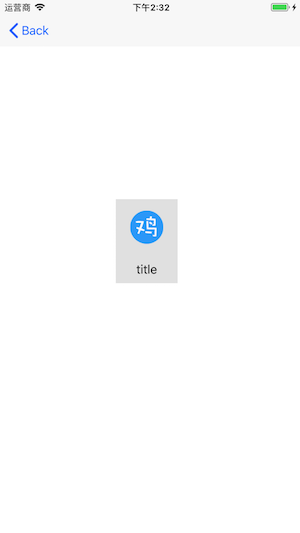
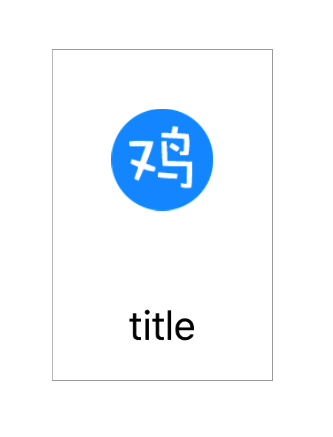
Release 1.0.3.

diff --git a/XOCenterImageTitleButtonDemo/XOCenterImageTitleButtonDemo/ViewController.swift b/XOCenterImageTitleButtonDemo/XOCenterImageTitleButtonDemo/ViewController.swift
@@ -15,7 +15,7 @@ class ViewController: UIViewController {
         // Do any additional setup after loading the view, typically from a nib.
         
         
-        let btn = XOCenterImageTitleButton.init(frame: CGRect.init(x: 170, y: 200, width: 100, height: 100))
+        let btn = XOCenterImageTitleButton.init(frame: CGRect.init(x: 170, y: 200, width: 100, height: 150))
         self.view.addSubview(btn)
         
         btn.setImage(UIImage.init(named: "icon"), for: .normal)
@@ -25,16 +25,16 @@ class ViewController: UIViewController {
         
         btn.imageViewTopSpaceToButton = 10 // default is 0
         btn.imageViewWidth = 50 // default is equal to the width of the button
-        btn.imageViewHeight = 50 // default is equal to  2/3 of the height of the button
+        btn.imageViewHeight = 80 // default is equal to  2/3 of the height of the button
         
         btn.titleLabelTopSpaceToImageView = 10 // default is 0
         btn.titleLabelWidth = 100 // default is equal to the width of the button
-        btn.titleLabelHeight = 20 // default is equal to  1/3 of the height of the button
+        btn.titleLabelHeight = 50 // default is equal to  1/3 of the height of the button
         
-        btn.backgroundColorForHighlightedState = .blue
+        btn.backgroundColorForHighlightedState = .lightGray
         btn.imageViewAlphaForHighlightedState = 0.5
-        
-        
+        btn.layer.borderColor = UIColor.lightGray.cgColor
+        btn.layer.borderWidth = 0.5
     }
     
     override func didReceiveMemoryWarning() {

diff --git a/XOCenterImageTitleButton/XOCenterImageTitleButton.swift b/XOCenterImageTitleButton/XOCenterImageTitleButton.swift
@@ -26,7 +26,7 @@ open class XOCenterImageTitleButton: UIButton {
             }
         }
         set {
-            _imageViewWidth = imageViewWidth
+            _imageViewWidth = newValue
         }
     }
     
@@ -41,7 +41,7 @@ open class XOCenterImageTitleButton: UIButton {
             }
         }
         set {
-            _imageViewHeight = imageViewHeight
+            _imageViewHeight = newValue
         }
     }
     
@@ -58,7 +58,7 @@ open class XOCenterImageTitleButton: UIButton {
             }
         }
         set {
-            _titleLabelWidth = titleLabelWidth
+            _titleLabelWidth = newValue
         }
     }
     // titleLabel的高度（默认是按钮的1/3高）
@@ -72,7 +72,7 @@ open class XOCenterImageTitleButton: UIButton {
             }
         }
         set {
-            _titleLabelHeight = titleLabelHeight
+            _titleLabelHeight = newValue
         }
     }
     

diff --git a/XOCenterImageTitleButtonDemo/XOCenterImageTitleButton/XOCenterImageTitleButton.swift b/XOCenterImageTitleButtonDemo/XOCenterImageTitleButton/XOCenterImageTitleButton.swift
@@ -26,7 +26,7 @@ open class XOCenterImageTitleButton: UIButton {
             }
         }
         set {
-            _imageViewWidth = imageViewWidth
+            _imageViewWidth = newValue
         }
     }
     
@@ -41,7 +41,7 @@ open class XOCenterImageTitleButton: UIButton {
             }
         }
         set {
-            _imageViewHeight = imageViewHeight
+            _imageViewHeight = newValue
         }
     }
     
@@ -58,7 +58,7 @@ open class XOCenterImageTitleButton: UIButton {
             }
         }
         set {
-            _titleLabelWidth = titleLabelWidth
+            _titleLabelWidth = newValue
         }
     }
     // titleLabel的高度（默认是按钮的1/3高）
@@ -72,7 +72,7 @@ open class XOCenterImageTitleButton: UIButton {
             }
         }
         set {
-            _titleLabelHeight = titleLabelHeight
+            _titleLabelHeight = newValue
         }
     }
     
